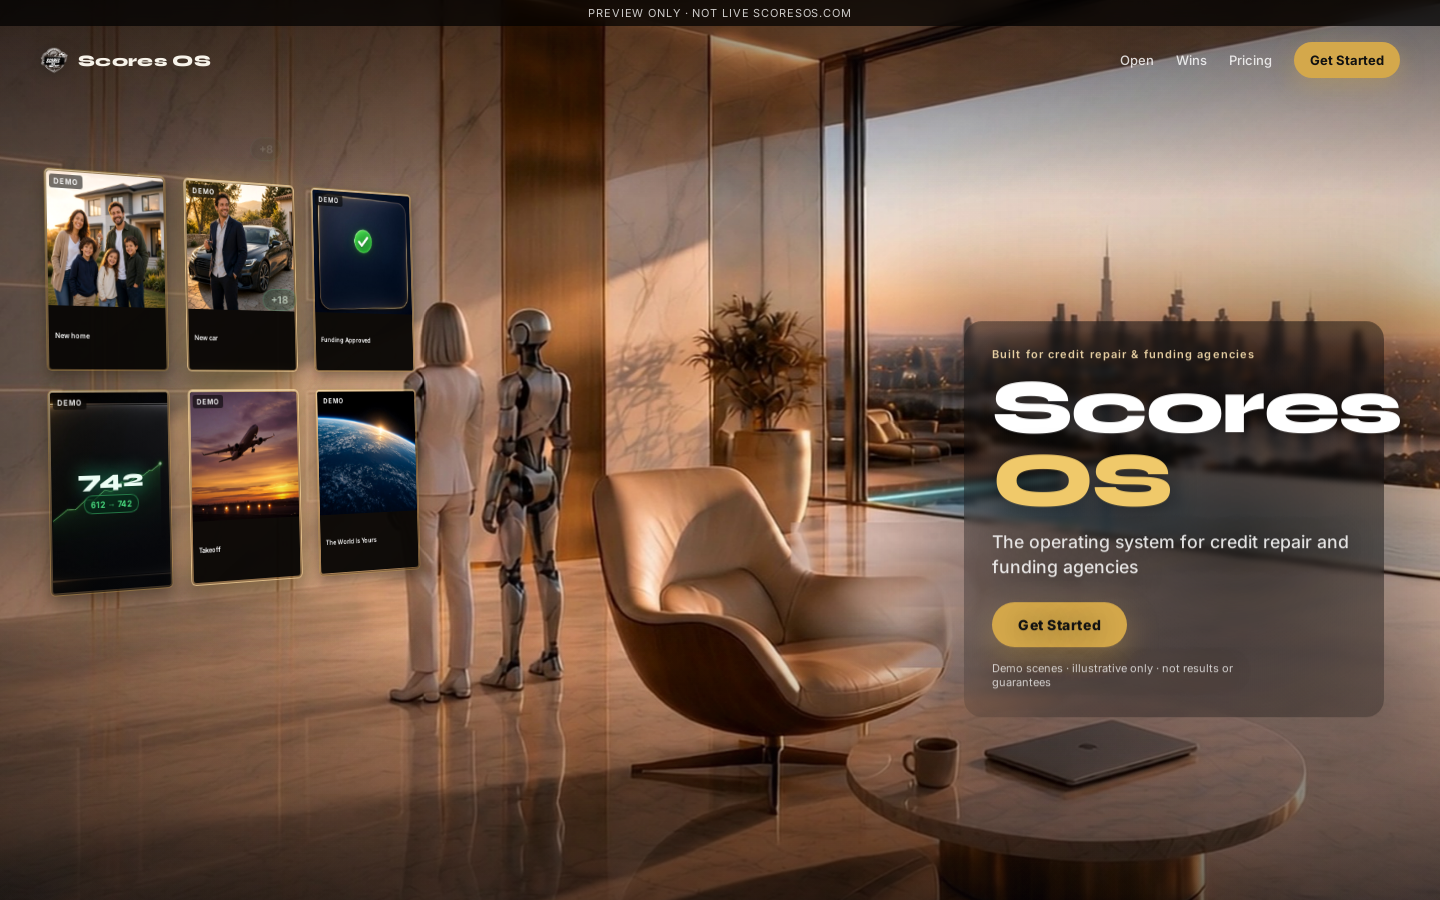
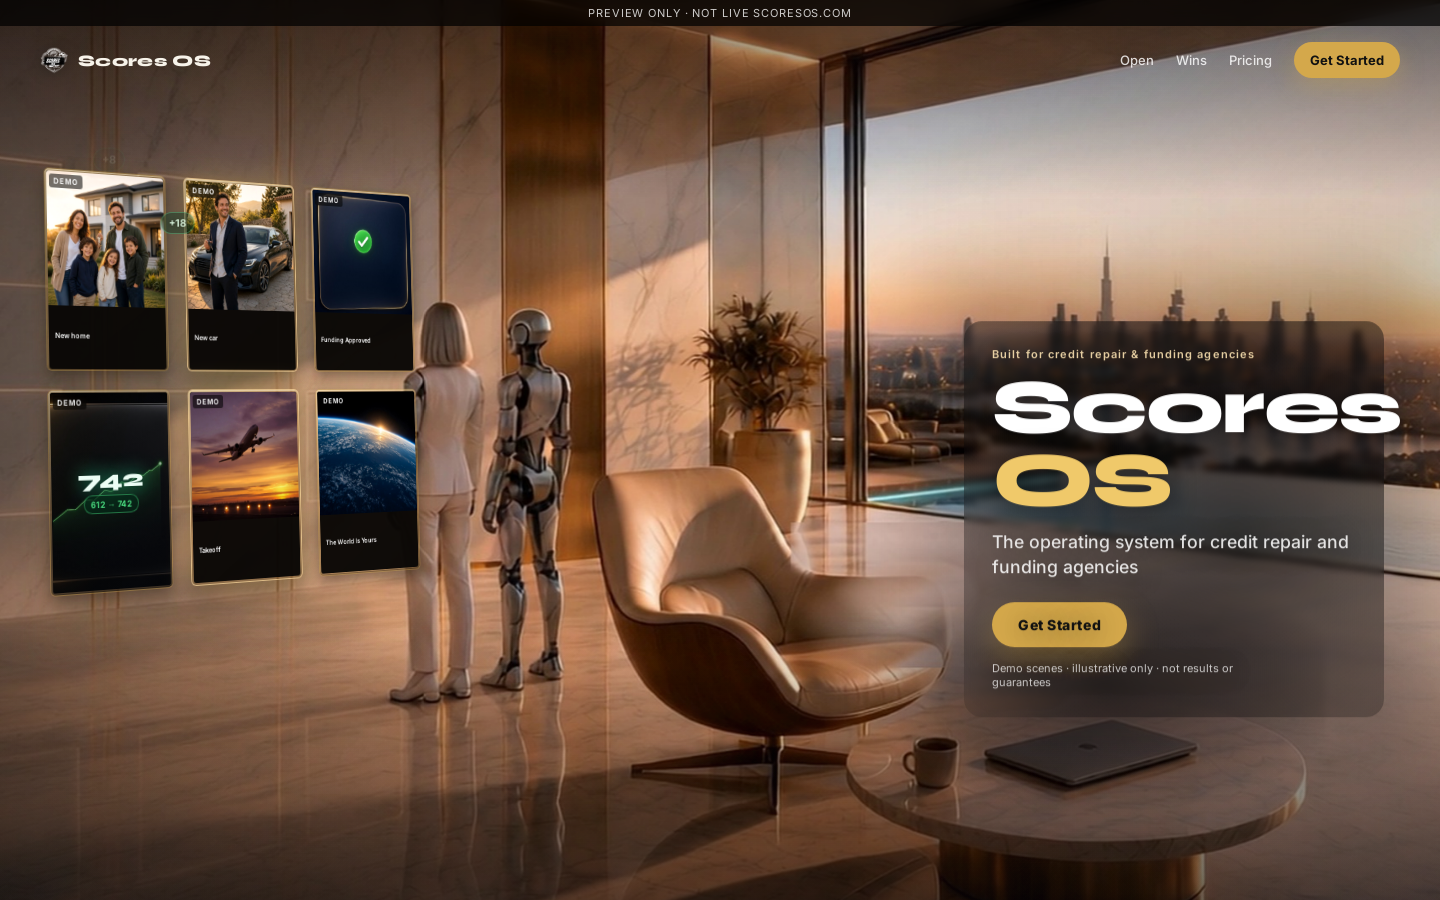
v4c QA refresh after table scrim deploy

Changed region(s): [[0.625, 0.6844, 0.875, 0.84], [0.0938, 0.2178, 0.1562, 0.28], [0.1875, 0.3111, 0.2188, 0.3422]]

diff --git a/v4/qa/SELF-CRITIQUE-v4.md b/v4/qa/SELF-CRITIQUE-v4.md
@@ -1,8 +1,8 @@
 # Scores OS `/v4/` self-critique — **v4c**
 
 **URL:** https://scoresos-world-preview.onrender.com/v4/?v=v4c  
-**Commit:** `09e8a1e` (+ QA follow-up)  
-**Deploy:** `dep-dbk3tu5g1s2s7397uh80` (live)  
+**Commit:** `1930a88` (plate/CSS) · QA `cf9bdfb`+  
+**Deploy:** `dep-dbk3vhou01pc738vv4j0` (live; prior `dep-dbk3tu5g1s2s7397uh80`)  
 **Runway:** 50 credits this pass (299→249). Failed take1 charged 0; take2 gen-4-turbo 10s succeeded. Cap respected.
 
 ## Canvas FAIL items → v4c response
@@ -10,7 +10,7 @@
 1. **Wall ~1.6–1.8× / no grey plate / gold into marble / harder perspective.**  
    CSS wall now **32.5% × 47.5%** (~1.7× prior 19.2×28). `.wall::before` grey niche removed. Thin gold tile bezels only. `perspective(1400px) rotateY(26deg)` pushes tiles into the room toward the window. Height reads roughly Maxine head→knees on the 1440 still.
 2. **Table “742” hologram.**  
-   New plate + per-frame paint-out on the I2V clip; soft dark **copy scrim** also blankets the table zone under the right-hand copy. Live 1440 still: no readable table hologram.
+   New plate + per-frame paint-out on the I2V clip; soft dark **copy scrim** also blankets the table zone under the right-hand copy. Live 1440 still: no readable table hologram; plus soft CSS radial veil over the table corner (v4c1).
 3. **Disclaimer readability.**  
    `.croa` at **75% white**; copy block sits on a soft dark scrim / blur.
 4. **Characters too big.**  
